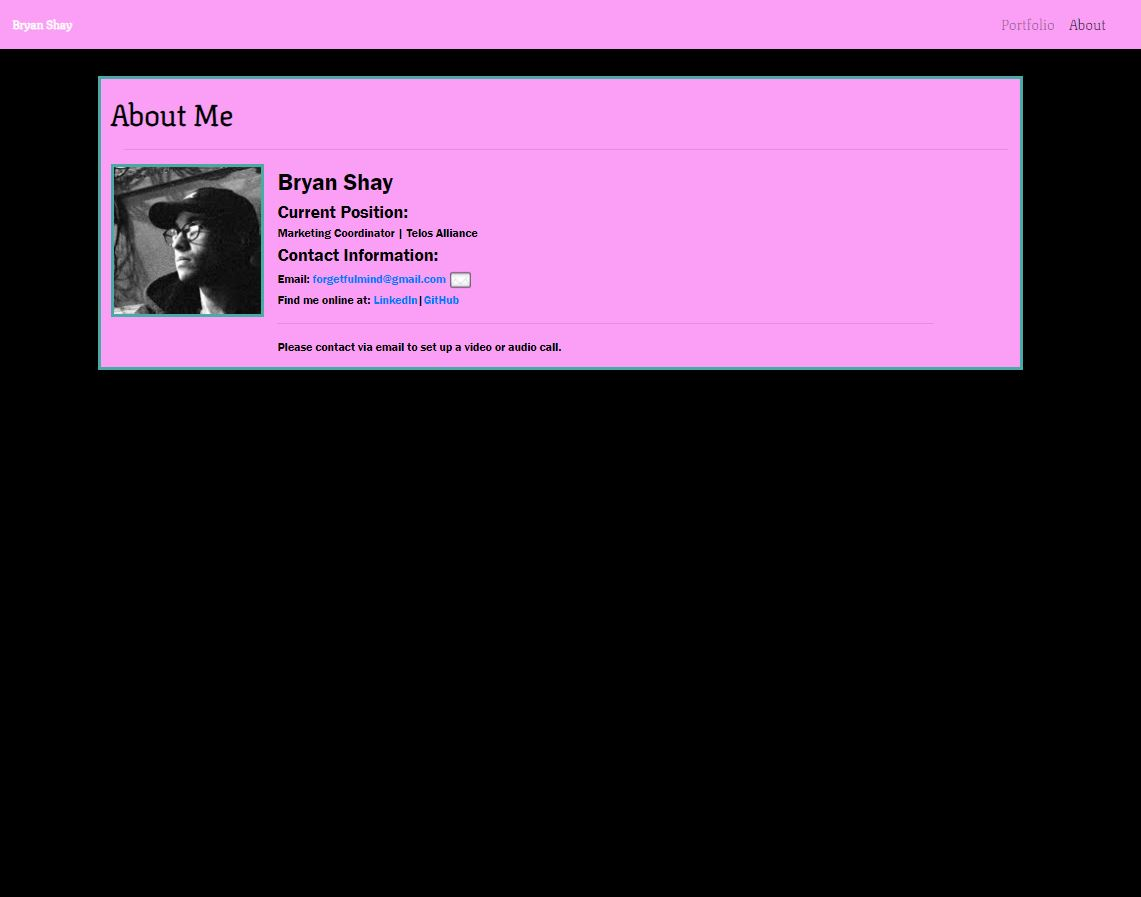
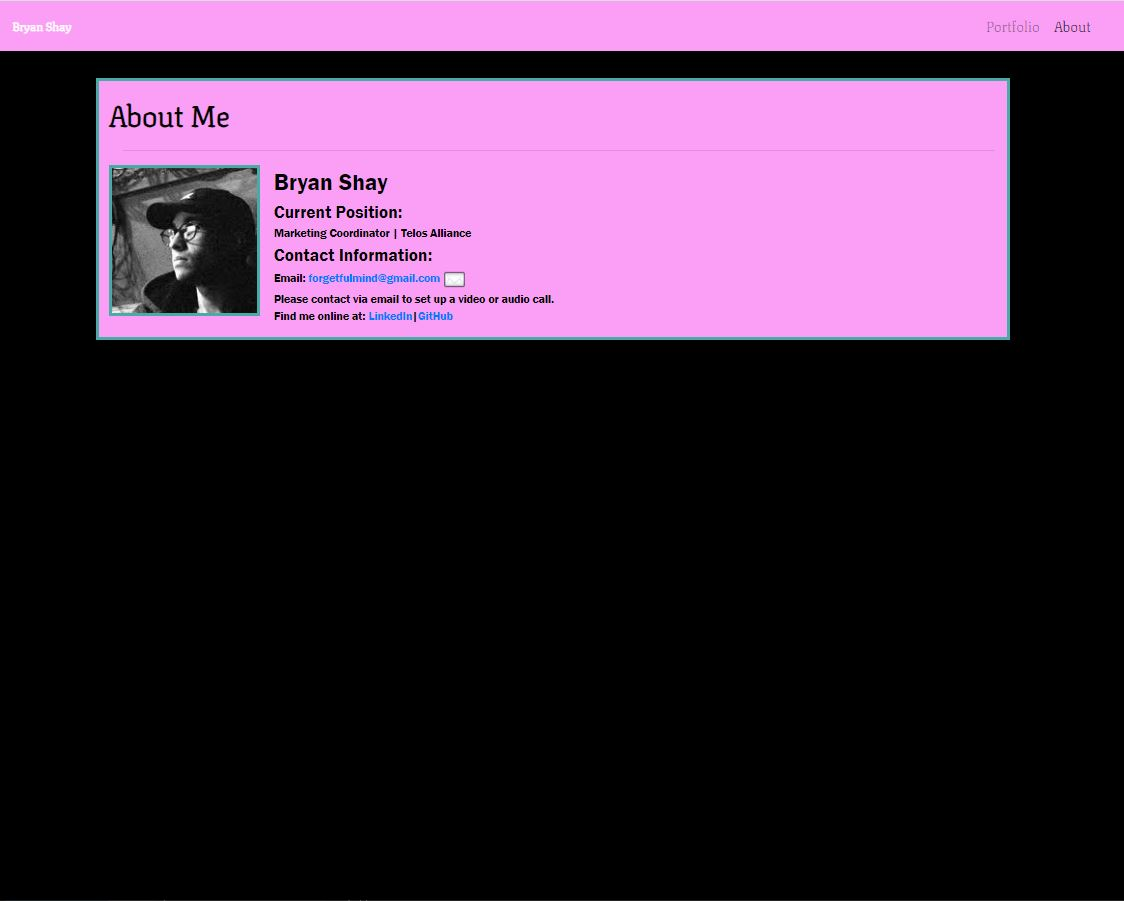
replaced image

diff --git a/index.html b/index.html
@@ -69,11 +69,11 @@
                                           Email: <a href="mailto:forgetfulmind@gmail.com">forgetfulmind@gmail.com</a>
                                           <a href="mailto:forgetfulmind@gmail.com"><img class="mail" src="./imgs/Mail-icon.png"><img></a>
                                      <br>
+                                     Please contact via email to set up a video or audio call.
+                                     <br>
                                      Find me online at:
                                      <a href="https://www.linkedin.com/in/bryan-shay-31799995">LinkedIn</a>|<a href="https://github.com/forgetfulmind">GitHub</a> 
                                      <br>
-                                     <hr />
-                                     Please contact via email to set up a video or audio call.
                                    </div>
                                   
                                     
